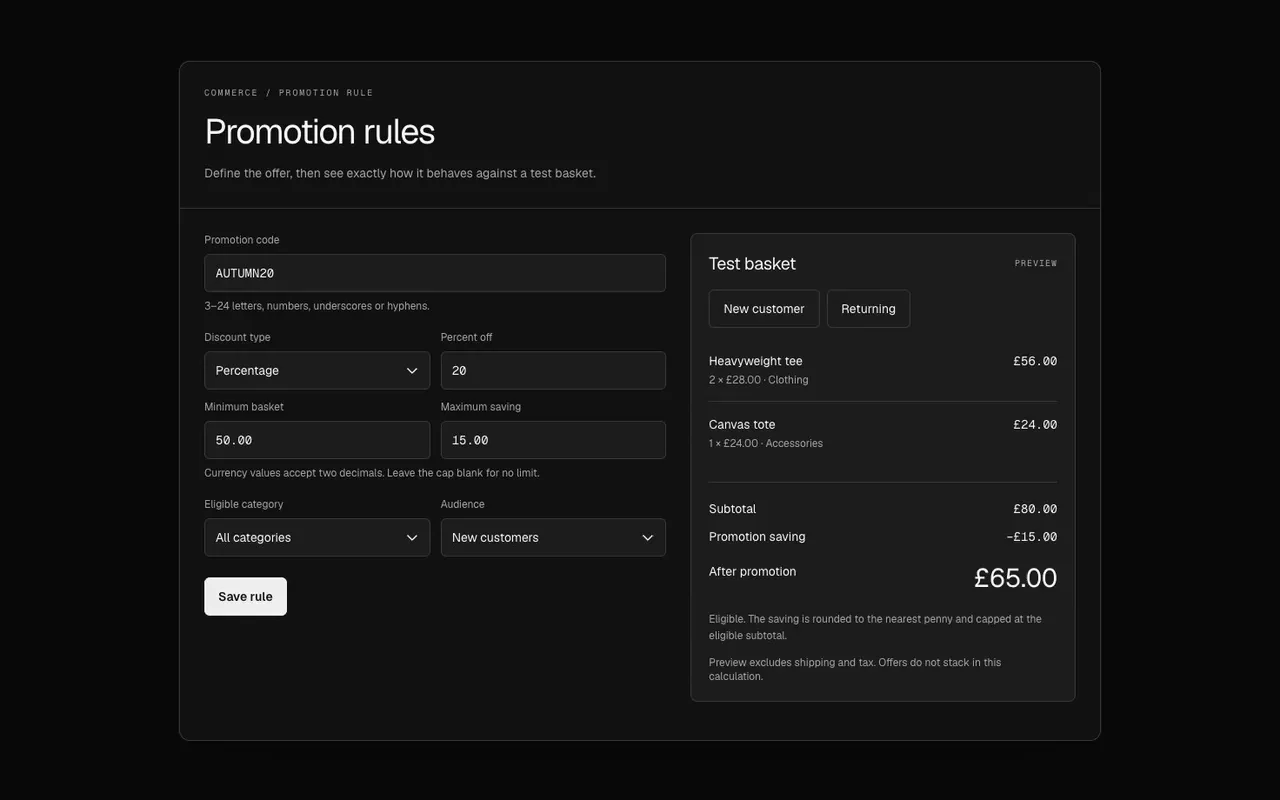
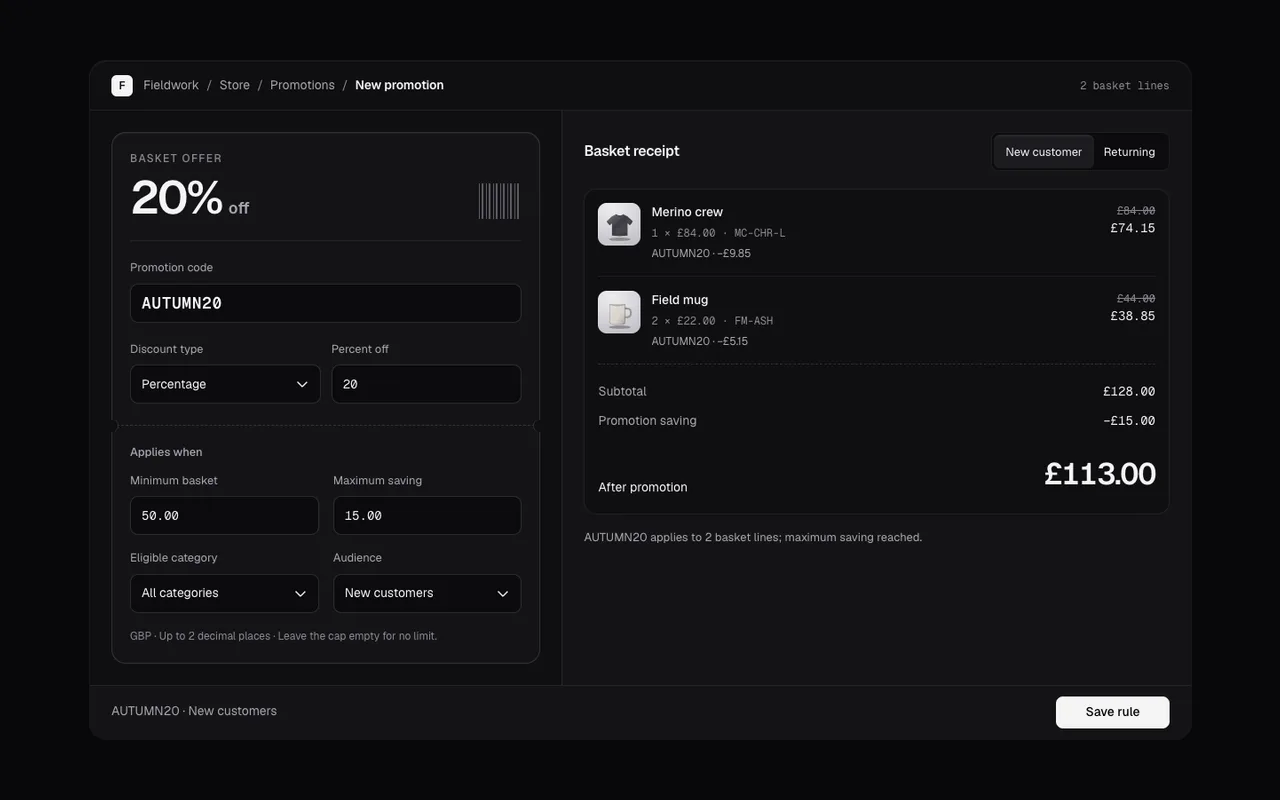
test(commerce-promotion-builder): verify rebuilt rule and receipt workflow

diff --git a/docs/review/HANDOFF_TASKS.md b/docs/review/HANDOFF_TASKS.md
@@ -199,6 +199,8 @@ and how to know it's done. Pick any of them up independently. Background, briefs
 
 - Task 1: Export Preset now has a reviewed 5.3s film showing the artboard reshape, lower-quality comparison and settled Exported receipt. Full-viewport framing keeps the controls and receipt visible and matches its new poster. Maximum source gap is 12ms, changed-source delivery 18.4ms and moving-frame p95 19.9ms, with no stalls and every existing guard intact. 120 listed films remain.
 
+- Task 7: Promotion Builder is rebuilt around a working offer ticket and line-level basket receipt. Exact minor-unit savings, capped/category/audience rules, failed-save retry, pending locks and retired-currency replies pass its 22-mount source review and rewritten Next regression. Both-theme state accessibility, six widths, entrance captures, three controls, official audit and refreshed poster pass, with strict registry, TypeScript and all 1,063 unit tests. Its new film joins task 1; 39 components and 12 blocks remain in task 7.
+
 ## Ground rules (read first)
 
 - Two repos. Public: `richawo/Design-components-for-AI-agents` (this one). Pro: `richawo/Design-for-AI`, private, cloned
@@ -216,7 +218,7 @@ and how to know it's done. Pick any of them up independently. Background, briefs
 - Browser checks: `node scripts/check-component.mjs <slug> --base=http://localhost:3100 --no-video --keep-going`
   (screenshots at 1440/768/390 and every control flip; read the screenshots it writes to `test-results/check/<slug>/`).
 
-## 1. Re-record demo videos (120 components)
+## 1. Re-record demo videos (121 components)
 
 Every rebuilt component's poster is current but its catalogue film (`public/previews/<slug>.mp4`) still shows the old
 version. Record them one at a time on an otherwise idle machine; the recorder rejects frame stalls under load.
@@ -235,6 +237,7 @@ slug or per small group). Notes:
 
 Slugs:
 
+`commerce-promotion-builder`
 `editor-font-pairing`, `editor-keyframe-track`
 `editor-layer-stack`, `editor-spacing-inspector`, `editor-storyboard-strip`, `editor-version-restore`
 `three-exploded-assembly`, `three-material-inspector`, `agents-budget-guard`, `agents-dependency-board`
@@ -364,15 +367,15 @@ All nine parked rebuilds are shipped in both repos. Their original `_wip/<slug>`
 | finance-budget-variance | Completed 17 October: Next probe, dark/light accessibility, responsive and entrance/state captures, live demo and refreshed poster pass. |
 | finance-cashflow-dashboard | Completed 17 October: weekly balance and in/out bars, movable payments, independent pending saves, invalid-data guards, selected-week list geometry, Next probe/demo, both-theme accessibility, responsive/state/entrance captures and refreshed poster pass. |
 
-## 7. Continue the review (about 40 components, then 12 blocks)
+## 7. Continue the review (39 components, then 12 blocks)
 
-Same process as the 149 already done: hold each to the first ~100 components' standard. Briefs:
+Same process as the 159 already done: hold each to the first ~100 components' standard. Briefs:
 `docs/review/REVIEW_BRIEF.md`, `docs/review/SUITE_BRIEF.md` for industry components, suite languages in
 `docs/review/suites/`. Work newest first, about four components per batch, and verify each (build, tsc, tests,
 check-component, your own captures of states and mid-entrance frames, a refreshed poster, a rewritten pro-50 probe for
 industry components).
 
-- **Commerce** (copy `suites/commerce.md`): commerce-promotion-builder, commerce-purchase-order,
+- **Commerce** (copy `suites/commerce.md`): commerce-purchase-order,
   commerce-fulfilment-desk, commerce-operations-dashboard, commerce-return-desk, commerce-variant-stock,
   commerce-catalog-import. `block-commerce-workspace` imports commerce-return-desk: keep its call site working.
 - **Others**: app-permission-matrix, legal-version-history (`suites/legal.md`), hr-capacity-planner (`suites/hr.md`),

diff --git a/docs/review/STATUS.md b/docs/review/STATUS.md
@@ -1,6 +1,6 @@
 # Review status
 
-158 components are rebuilt (or, for a few, polished), verified and committed. For each: whether its demo video
+159 components are rebuilt (or, for a few, polished), verified and committed. For each: whether its demo video
 needs re-recording, whether its poster is current, and the state of its browser regression probe.
 
 - **Video**: `new` means `public/previews/<slug>.mp4` still shows the old version. Re-record serially on a quiet machine:
@@ -174,10 +174,11 @@ remain in place. Measurements, checkout revisions and the investigated package d
 | `fashion-size-guide` | new | current | source-fixture regression/demo, native palettes, both-theme accessibility and responsive/state/entrance captures pass |
 | `fashion-wholesale-order` | new | current | rewritten, passes |
 
-## Commerce suite (4)
+## Commerce suite (5)
 
 | Slug | Video | Poster | Probe |
 | --- | --- | --- | --- |
+| `commerce-promotion-builder` | new | current | Rebuilt offer ticket and exact line-level receipt; 22-mount source review, Next workflow, both-theme accessibility, six widths, entrance/state captures, three controls, official audit and refreshed poster pass. |
 | `commerce-backorder-allocation` | new | current | rewritten, passes on the Next-backed source-fixture runner |
 | `commerce-bundle-builder` | new | current | rewritten, passes on the Next-backed source-fixture runner |
 | `commerce-customer-timeline` | new | current | rewritten, passes on the Next-backed source-fixture runner |
